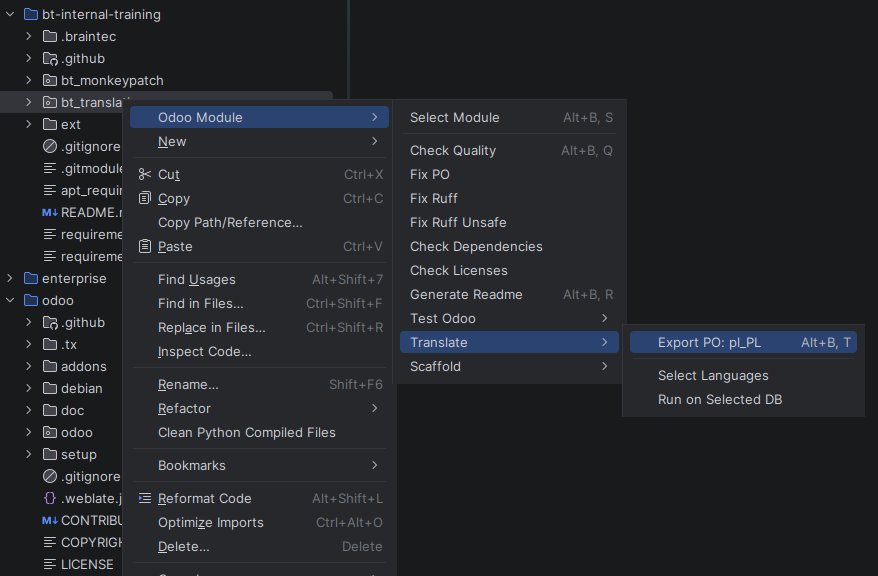
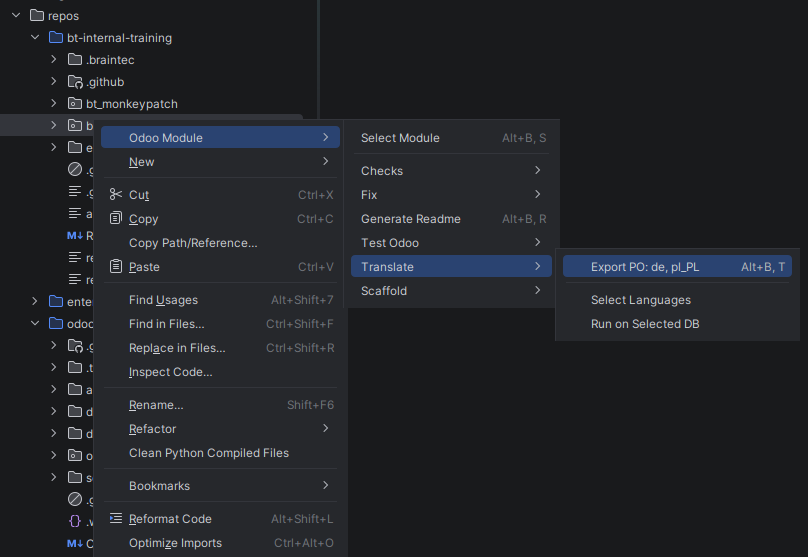
Update Changelog, Readme & context menu screenshot

diff --git a/_includes/README.md b/_includes/README.md
@@ -91,12 +91,9 @@ You can also use the `$BTSAddonsPaths$` macro to define a custom addons path by 
 
 ## Test Selection
 
-A streamlined way to target specific tests. You can select either a unit test or an entire test class, then inject it into your Run Configuration using the `$BTSSelectedTest$` macro.
+You can select either a unit test or an entire test class, then inject it into your Run Configuration using the `$BTSSelectedTest$` macro. Start it with `Test` Run Configuration.
 
 ![Odoo test selection context action for selecting a single test](https://raw.githubusercontent.com/TadeuszKarpinski/BTS-public/refs/heads/main/images/test_selection_2.png)
-
-* **Granular Control** – Toggle between individual test methods and full classes.
-* **Macro Integration** – Use `$BTSSelectedTest$` to automate test execution across different environments.
 
 ---
 
@@ -110,10 +107,12 @@ A streamlined way to target specific tests. You can select either a unit test or
 * **Select/Unselect Module** – Quickly add or remove a module from your current selection.
 * **Generate Readme** – Execute `bt utility generate-readme`.
 
-### Quality & Compliance
-* **Check Quality** – Run code quality tests via `bt test code quality`.
+### Code Analysis (Checks)
+* **Quality & Compliance** – Run static analysis for code quality, verify licenses, and audit module dependencies.
+* **Dependency Tree** – Visualize the full hierarchy of module requirements to identify potential conflicts.
+
+### Automated Maintenance (Fixes)
 * **Fix PO / Ruff** – Run `bt test checks-odoo-po` or `bt test ruff check` with the `--fix` and `--unsafe-fixes` flags.
-* **Dependencies & Licenses** – Optimize module dependencies or verify licenses using `bt utility`.
 
 ### Odoo Testing
 * **Run Tests** – Execute `bt test odoo` with options for specific modules, project-only, or non-project modules.

diff --git a/_includes/CHANGELOG.md b/_includes/CHANGELOG.md
@@ -5,9 +5,13 @@
 ### Added
 
 - Braintec: Add option to open "Left" and "Right" diff files for translations export.
+- Braintec: Add new command Tree Dependencies.
+- Braintec: Add new command Start DbGate.
+- Braintec: Move Check and Fix actions to Checks and Fix groups.
 
 ### Fixed
 
+- Issue with starting actions for multi modules.
 - Braintec: Open multi diff files for translations export.
 - Braintec: Issue with diff files detection.
 
